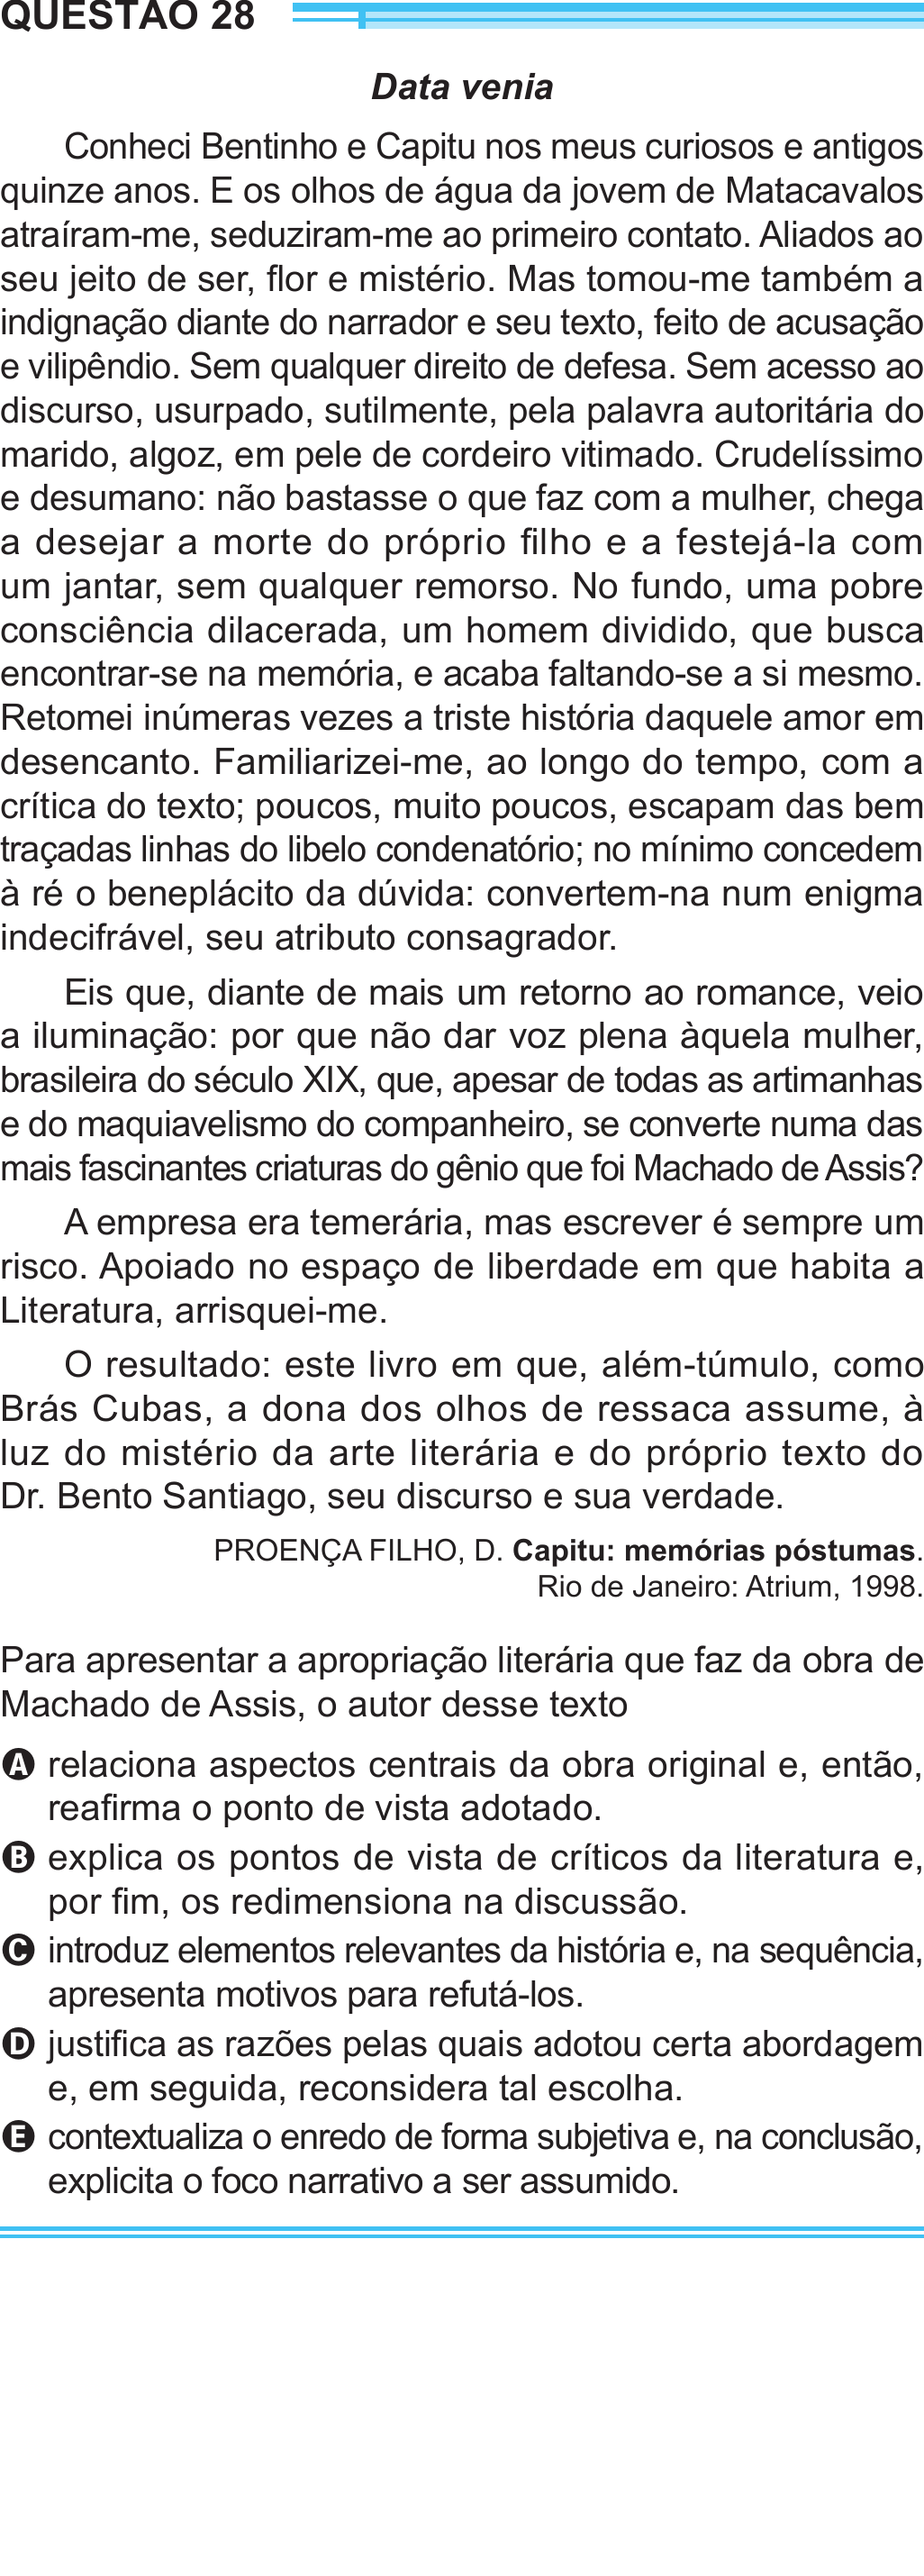
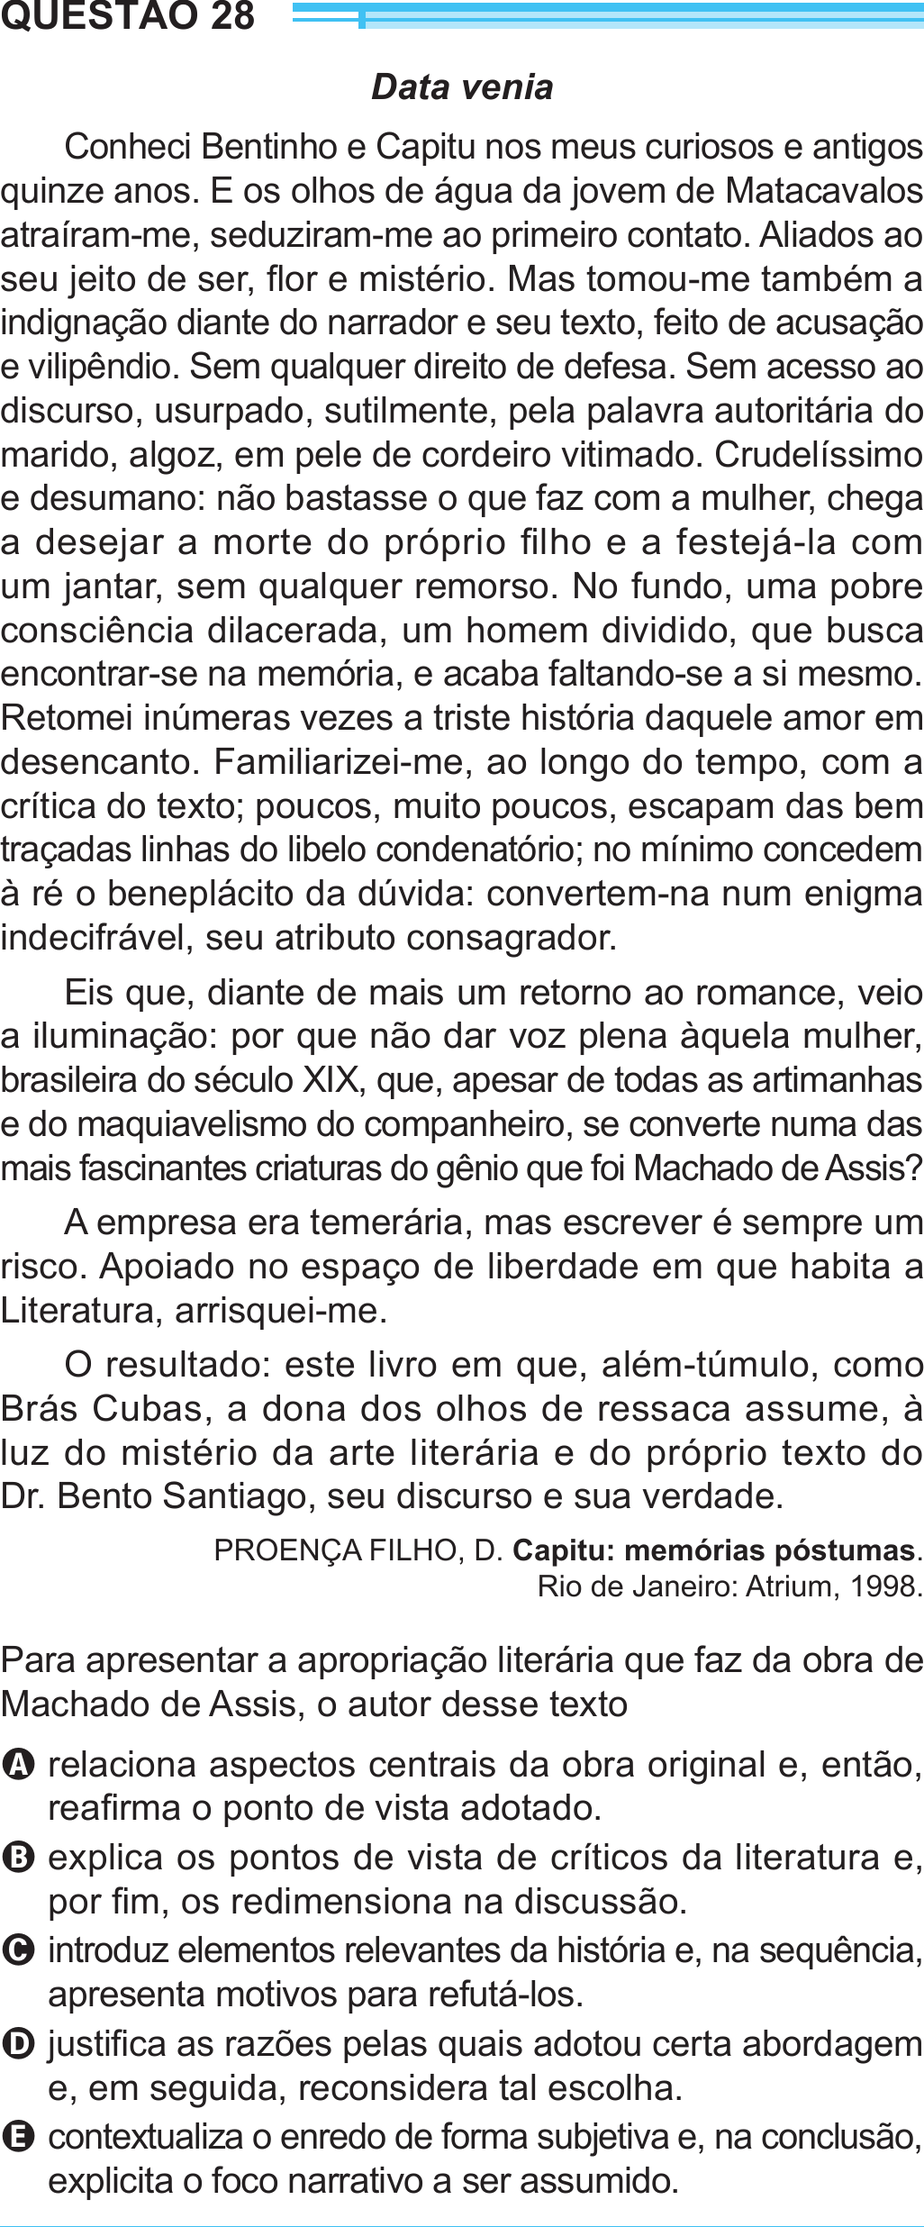
finalmente

diff --git a/cortarsobra.py b/cortarsobra.py
@@ -1,0 +1,150 @@
+from PIL import Image
+import os
+import shutil
+
+def encontrar_borda_inferior(imagem, cor_alvo=(64, 193, 243), tolerancia=15):
+    """
+    Encontra a borda azul descrita (4px azul, 4px branco, 4px azul) de baixo para cima
+    Retorna a posição Y onde deve ser feito o corte (acima da borda) ou None se não encontrar
+    """
+    largura, altura = imagem.size
+    pixels = imagem.load()
+    
+    # Percorre a imagem de baixo para cima
+    for y in range(altura - 1, 15, -1):  # Começa do fundo, precisa de pelo menos 12 pixels
+        # Verifica o padrão da borda: 4px azul, 4px branco, 4px azul
+        borda_encontrada = True
+        
+        # Verifica os 4 pixels azuis inferiores (y-11 até y-8)
+        for dy in range(4):
+            pixel_y = y - 11 + dy
+            if pixel_y < 0:
+                borda_encontrada = False
+                break
+                
+            pixel = pixels[largura // 2, pixel_y]
+            if len(pixel) == 4:  # RGBA
+                r, g, b, a = pixel
+            else:  # RGB
+                r, g, b = pixel[:3]
+            
+            # Verifica se é azul (dentro da tolerância)
+            if (abs(r - cor_alvo[0]) > tolerancia or 
+                abs(g - cor_alvo[1]) > tolerancia or 
+                abs(b - cor_alvo[2]) > tolerancia):
+                borda_encontrada = False
+                break
+        
+        if not borda_encontrada:
+            continue
+            
+        # Verifica os 4 pixels brancos do meio (y-7 até y-4)
+        for dy in range(4):
+            pixel_y = y - 7 + dy
+            pixel = pixels[largura // 2, pixel_y]
+            if len(pixel) == 4:  # RGBA
+                r, g, b, a = pixel
+            else:  # RGB
+                r, g, b = pixel[:3]
+            
+            # Verifica se é branco (dentro da tolerância)
+            if (abs(r - 255) > tolerancia or 
+                abs(g - 255) > tolerancia or 
+                abs(b - 255) > tolerancia):
+                borda_encontrada = False
+                break
+        
+        if not borda_encontrada:
+            continue
+            
+        # Verifica os 4 pixels azuis superiores (y-3 até y)
+        for dy in range(4):
+            pixel_y = y - 3 + dy
+            pixel = pixels[largura // 2, pixel_y]
+            if len(pixel) == 4:  # RGBA
+                r, g, b, a = pixel
+            else:  # RGB
+                r, g, b = pixel[:3]
+            
+            # Verifica se é azul (dentro da tolerância)
+            if (abs(r - cor_alvo[0]) > tolerancia or 
+                abs(g - cor_alvo[1]) > tolerancia or 
+                abs(b - cor_alvo[2]) > tolerancia):
+                borda_encontrada = False
+                break
+        
+        if borda_encontrada:
+            print(f"Borda encontrada! Cortando na posição y={y-11}")
+            return y - 11  # Retorna a posição acima da borda completa
+    
+    return None
+
+def processar_imagens(pasta_origem, pasta_destino, cor_alvo=(64, 193, 243)):
+    """
+    Processa todas as imagens da pasta origem, recortando as que têm borda azul inferior
+    e copiando todas para a pasta destino
+    """
+    # Cria a pasta de destino se não existir
+    os.makedirs(pasta_destino, exist_ok=True)
+    
+    # Lista todos os arquivos da pasta origem
+    arquivos = [f for f in os.listdir(pasta_origem) 
+                if f.lower().endswith(('.png', '.jpg', '.jpeg', '.bmp', '.tiff'))]
+    
+    print(f"Encontrados {len(arquivos)} arquivos para processar")
+    
+    for arquivo in arquivos:
+        caminho_origem = os.path.join(pasta_origem, arquivo)
+        caminho_destino = os.path.join(pasta_destino, arquivo)
+        
+        try:
+            # Abre a imagem
+            with Image.open(caminho_origem) as imagem:
+                print(f"\nProcessando: {arquivo} ({imagem.width}x{imagem.height})")
+                
+                # Procura pela borda inferior
+                posicao_corte = encontrar_borda_inferior(imagem, cor_alvo)
+                
+                if posicao_corte is not None and posicao_corte > 0:
+                    # Se encontrou a borda, recorta a imagem
+                    area_corte = (0, 0, imagem.width, posicao_corte)
+                    imagem_recortada = imagem.crop(area_corte)
+                    imagem_recortada.save(caminho_destino)
+                    print(f"✓ Imagem recortada: {imagem_recortada.width}x{imagem_recortada.height}")
+                else:
+                    # Se não encontrou borda, copia a imagem original
+                    shutil.copy2(caminho_origem, caminho_destino)
+                    print(f"✓ Imagem mantida original (sem borda detectada)")
+                    
+        except Exception as e:
+            print(f"✗ Erro ao processar {arquivo}: {e}")
+            # Tenta copiar o arquivo mesmo com erro
+            try:
+                shutil.copy2(caminho_origem, caminho_destino)
+                print(f"✓ Arquivo copiado mesmo com erro")
+            except:
+                print(f"✗ Não foi possível copiar o arquivo")
+
+# Função principal
+if __name__ == "__main__":
+    # Configurações
+    pasta_origem = "questoes_restantes"
+    pasta_destino = "."
+    cor_azul = (64, 193, 243)  # RGB para #40c1f3
+    
+    print("Iniciando processamento de imagens...")
+    print(f"Pasta origem: {pasta_origem}")
+    print(f"Pasta destino: {pasta_destino}")
+    print(f"Cor alvo: RGB{cor_azul} (#40c1f3)")
+    
+    # Verifica se a pasta origem existe
+    if not os.path.exists(pasta_origem):
+        print(f"Erro: A pasta '{pasta_origem}' não existe!")
+        exit(1)
+    
+    # Executa o processamento
+    processar_imagens(pasta_origem, pasta_destino, cor_azul)
+    
+    print("\n" + "="*50)
+    print("Processamento concluído!")
+    print(f"Todas as imagens foram salvas em: {pasta_destino}")
